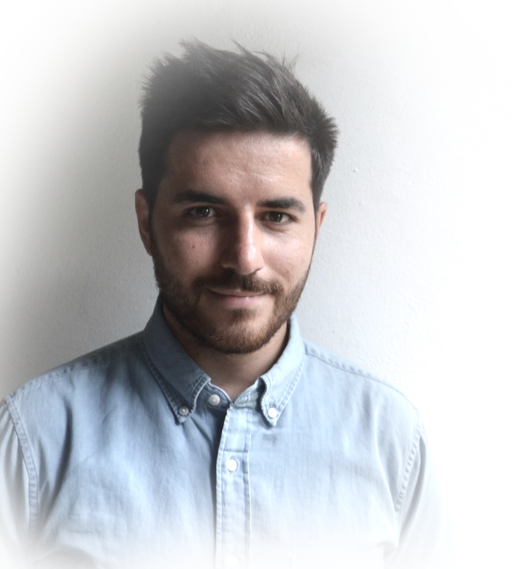
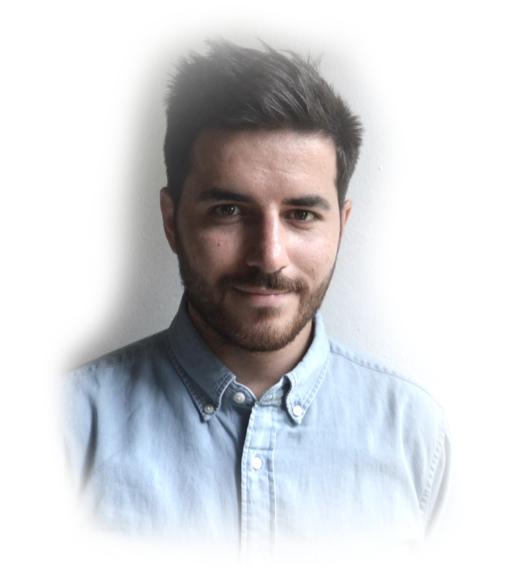
tests

diff --git a/source/stylesheets/components/_button.scss b/source/stylesheets/components/_button.scss
@@ -1,0 +1,121 @@
+.button1{
+ display:inline-block;
+ padding:0.35em 1.2em;
+ border:0.1em solid #FFFFFF;
+ margin:0 0.3em 0.3em 0;
+ border-radius:0.12em;
+ box-sizing: border-box;
+ text-decoration:none;
+ font-family:'Roboto',sans-serif;
+ font-weight:300;
+ color:#FFFFFF;
+ text-align:center;
+ transition: all 0.2s;
+}
+
+.button1:hover{
+ color:#000000;
+ background-color:#FFFFFF;
+}
+
+.button1{
+  display:block;
+  margin:0.4em auto;
+}
+
+
+/* Global Button Styles */
+a.animated-button:link, a.animated-button:visited {
+  position: relative;
+  display: block;
+  // margin: 30px auto 0;
+  padding: 14px 15px;
+  color: rgba(0,0,0,0.6);
+  font-size:14px;
+  font-weight: bold;
+  text-align: center;
+  text-decoration: none;
+  text-transform: uppercase;
+  overflow: hidden;
+  letter-spacing: .08em;
+  border-radius: 0;
+  text-shadow: 0 0 1px rgba(0, 0, 0, 0.2), 0 1px 0 rgba(0, 0, 0, 0.2);
+  -webkit-transition: all 1s ease;
+  -moz-transition: all 1s ease;
+  -o-transition: all 1s ease;
+  transition: all 1s ease;
+}
+a.animated-button:link:after, a.animated-button:visited:after {
+  content: "";
+  position: absolute;
+  height: 0%;
+  left: 50%;
+  top: 50%;
+  width: 150%;
+  z-index: -1;
+  -webkit-transition: all 0.75s ease 0s;
+  -moz-transition: all 0.75s ease 0s;
+  -o-transition: all 0.75s ease 0s;
+  transition: all 0.75s ease 0s;
+}
+a.animated-button:link:hover, a.animated-button:visited:hover {
+  color: #FFF;
+  text-shadow: none;
+}
+a.animated-button:link:hover:after, a.animated-button:visited:hover:after {
+  height: 450%;
+}
+a.animated-button:link, a.animated-button:visited {
+  position: relative;
+  display: block;
+  // margin: 30px auto 0;
+  padding: 14px 15px;
+  color: rgba(0,0,0,0.6);
+  font-size:14px;
+  border-radius: 0;
+  font-weight: bold;
+  text-align: center;
+  text-decoration: none;
+  text-transform: uppercase;
+  overflow: hidden;
+  letter-spacing: .08em;
+  -webkit-transition: all 1s ease;
+  -moz-transition: all 1s ease;
+  -o-transition: all 1s ease;
+  transition: all 1s ease;
+}
+
+/* Thar Buttons */
+
+a.animated-button.thar-three {
+  // font-family: 'Lato', sans-serif;
+  color: rgba(0,0,0,0.6);
+  cursor: pointer;
+  display: block;
+  position: relative;
+  border: 2px solid #F7CA18;
+  transition: all 0.4s cubic-bezier(0.42, 0, 0.58, 1);
+
+}
+a.animated-button.thar-three:hover {
+  color: #000 !important;
+  background-color: transparent;
+}
+a.animated-button.thar-three:hover:before {
+  left: 0%;
+  right: auto;
+  width: 100%;
+}
+a.animated-button.thar-three:before {
+  display: block;
+  position: absolute;
+  top: 0px;
+  right: 0px;
+  height: 100%;
+  width: 0px;
+  z-index: -1;
+  content: '';
+  color: #000 !important;
+  background: #F7CA18;
+  transition: all 0.4s cubic-bezier(0.42, 0, 0.58, 1);
+}

diff --git a/source/stylesheets/pages/_home.scss b/source/stylesheets/pages/_home.scss
@@ -2,12 +2,108 @@
   background-color: #F2F2F2;
 }
 
-.idphoto-and-about {
-  display: flex;
-  align-item: center;
+#idphoto {
+  opacity: 0.6;
+  width: 40%;
 }
 
+.idphoto-and-about {
+  display: flex;
+  align-items: center;}
+
 .about {
-  width: 25vw;
+  //width: 25vw;
   text-align: justify;
+  h3 {
+    font-size: 40px;
+  }
+  p {
+    font-size: 16px;
+  }
+  .highlight-purple {
+    color: rgb(133, 77, 255);
+    background: rgba(133, 77, 255,.1);
+    text-decoration : none;
+    cursor: pointer;
+  }
+   .highlight-purple:hover {
+    color: white;
+    background: rgba(133, 77, 255,.3);
+  }
+
+  .highlight-green {
+    color: rgb(14, 174, 57);
+    background: rgba(14, 174, 57,.1);
+    text-decoration : none;
+    cursor: pointer;
+  }
+  .highlight-green:hover {
+    color: white;
+    background: rgba(14, 174, 57,.3);
+  }
+
+  .highlight-red {
+    color: rgb(255, 20, 20);
+    background: rgba(255, 20, 20,.1);
+    text-decoration : none;
+    cursor: pointer;
+  }
+  .highlight-red:hover {
+    color: white;
+    background: rgba(255, 20, 20,.3);
+  }
+
+  .highlight-orange {
+    color: rgb(236, 173, 15);
+    background: rgba(236, 173, 15,.1);
+    text-decoration : none;
+    cursor: pointer;
+  }
+  .highlight-orange:hover {
+    color: white;
+    background: rgba(236, 173, 15,.3);
+  }
+
+  .highlight-light-blue {
+    color: rgb(17, 214, 240);
+    background: rgba(17, 214, 240,.1);
+    text-decoration : none;
+    cursor: pointer;
+  }
+  .highlight-light-blue:hover {
+    color: white;
+    background: rgba(17, 214, 240,.3);
+  }
+
+  .highlight-grey {
+    color: rgb(141, 141, 141);
+    background: rgba(141, 141, 141,.1);
+    text-decoration : none;
+    cursor: pointer;
+  }
+  .highlight-grey:hover {
+    color: white;
+    background: rgba(141, 141, 141,.3);
+  }
+}
+
+a.link {
+  -webkit-box-shadow: inset 0 -8px 0 rgba(250, 219, 51,0.55);
+  box-shadow: inset 0 -8px 0 rgba(250, 219, 51,0.55);
+  -webkit-transition: background .2s ease;
+  transition: background .2s ease;
+  color: rgb(94, 87, 87);
+  font-weight: 700;
+}
+
+a, a:focus {
+    outline: 0;
+    text-decoration: none;
+    color: inherit;
+}
+
+a.link:hover {
+    text-decoration: none;
+    color: rgb(0, 0, 0);
+    background: rgba(250, 219, 51,0.55);
 }

diff --git a/source/stylesheets/config/_fonts.scss b/source/stylesheets/config/_fonts.scss
@@ -1,9 +1,9 @@
 // Import Google fonts
-@import url("https://fonts.googleapis.com/css?family=Open+Sans:400,300,700|Raleway:400,100,300,700,500");
+@import url("https://fonts.googleapis.com/css?family=Rancho|Roboto:300,400,700");
 
 // Define fonts for body and headers
-$body-font: "Open Sans", "Helvetica", "sans-serif";
-$headers-font: "Raleway", "Helvetica", "sans-serif";
+$body-font: "Roboto", "Helvetica", "sans-serif";
+$headers-font: "Rancho", "Helvetica", "sans-serif";
 
 // To use a font file (.woff) uncomment following lines
 // @font-face {
@@ -14,3 +14,5 @@ $headers-font: "Raleway", "Helvetica", "sans-serif";
 //        font-url('FontFile.ttf') format('truetype')
 // }
 // $my-font: "Font Name";
+
+

diff --git a/source/stylesheets/components/_index.scss b/source/stylesheets/components/_index.scss
@@ -1,3 +1,4 @@
 // Import your components CSS files here.
 @import "alert";
 @import "navbar";
+@import "button";
